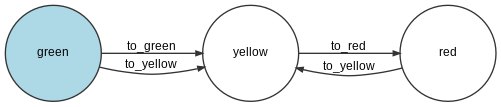
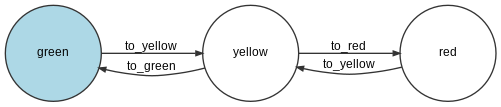
complete ex 6

Changed region(s): [[0.5689, 0.5607, 0.8084, 0.729], [0.1796, 0.5607, 0.4192, 0.729], [0.2395, 0.3925, 0.3593, 0.5047]]

diff --git a/src/Listener/TrafficLightGuardListener.php b/src/Listener/TrafficLightGuardListener.php
@@ -1,0 +1,39 @@
+<?php
+
+
+namespace App\Listener;
+
+
+use Symfony\Component\EventDispatcher\EventSubscriberInterface;
+use Symfony\Component\Security\Core\Authentication\Token\Storage\TokenStorage;
+use Symfony\Component\Security\Core\Security;
+use Symfony\Component\Workflow\Event\Event;
+
+class TrafficLightGuardListener implements EventSubscriberInterface
+{
+    /**
+     * @var Security
+     */
+    private $security;
+
+    public function __construct(
+        Security $security
+    )
+    {
+        $this->security = $security;
+    }
+
+    public function guardYellow(Event $event)
+    {
+        if (!$this->security->isGranted('ROLE_ADMIN')) {
+            $event->setBlocked(true);
+        }
+    }
+
+    public static function getSubscribedEvents()
+    {
+        return [
+            'workflow.traffic_light.guard.to_yellow' => ['guardYellow'],
+        ];
+    }
+}

diff --git a/src/Entity/PullRequest.php b/src/Entity/PullRequest.php
@@ -37,6 +37,11 @@ class PullRequest
     /** @var @ORM\Column(type="boolean") */
     private $locked = false;
 
+    /**
+     * @var string
+     */
+    private $state;
+
     public function __construct($name)
     {
         $this->name = $name;
@@ -106,4 +111,24 @@ class PullRequest
     {
         $this->locked = $locked;
     }
+
+    /**
+     * @return string
+     */
+    public function getState(): string
+    {
+        return $this->state;
+    }
+
+    /**
+     * @param string $state
+     * @return PullRequest
+     */
+    public function setState(string $state): PullRequest
+    {
+        $this->state = $state;
+        return $this;
+    }
+
+
 }
